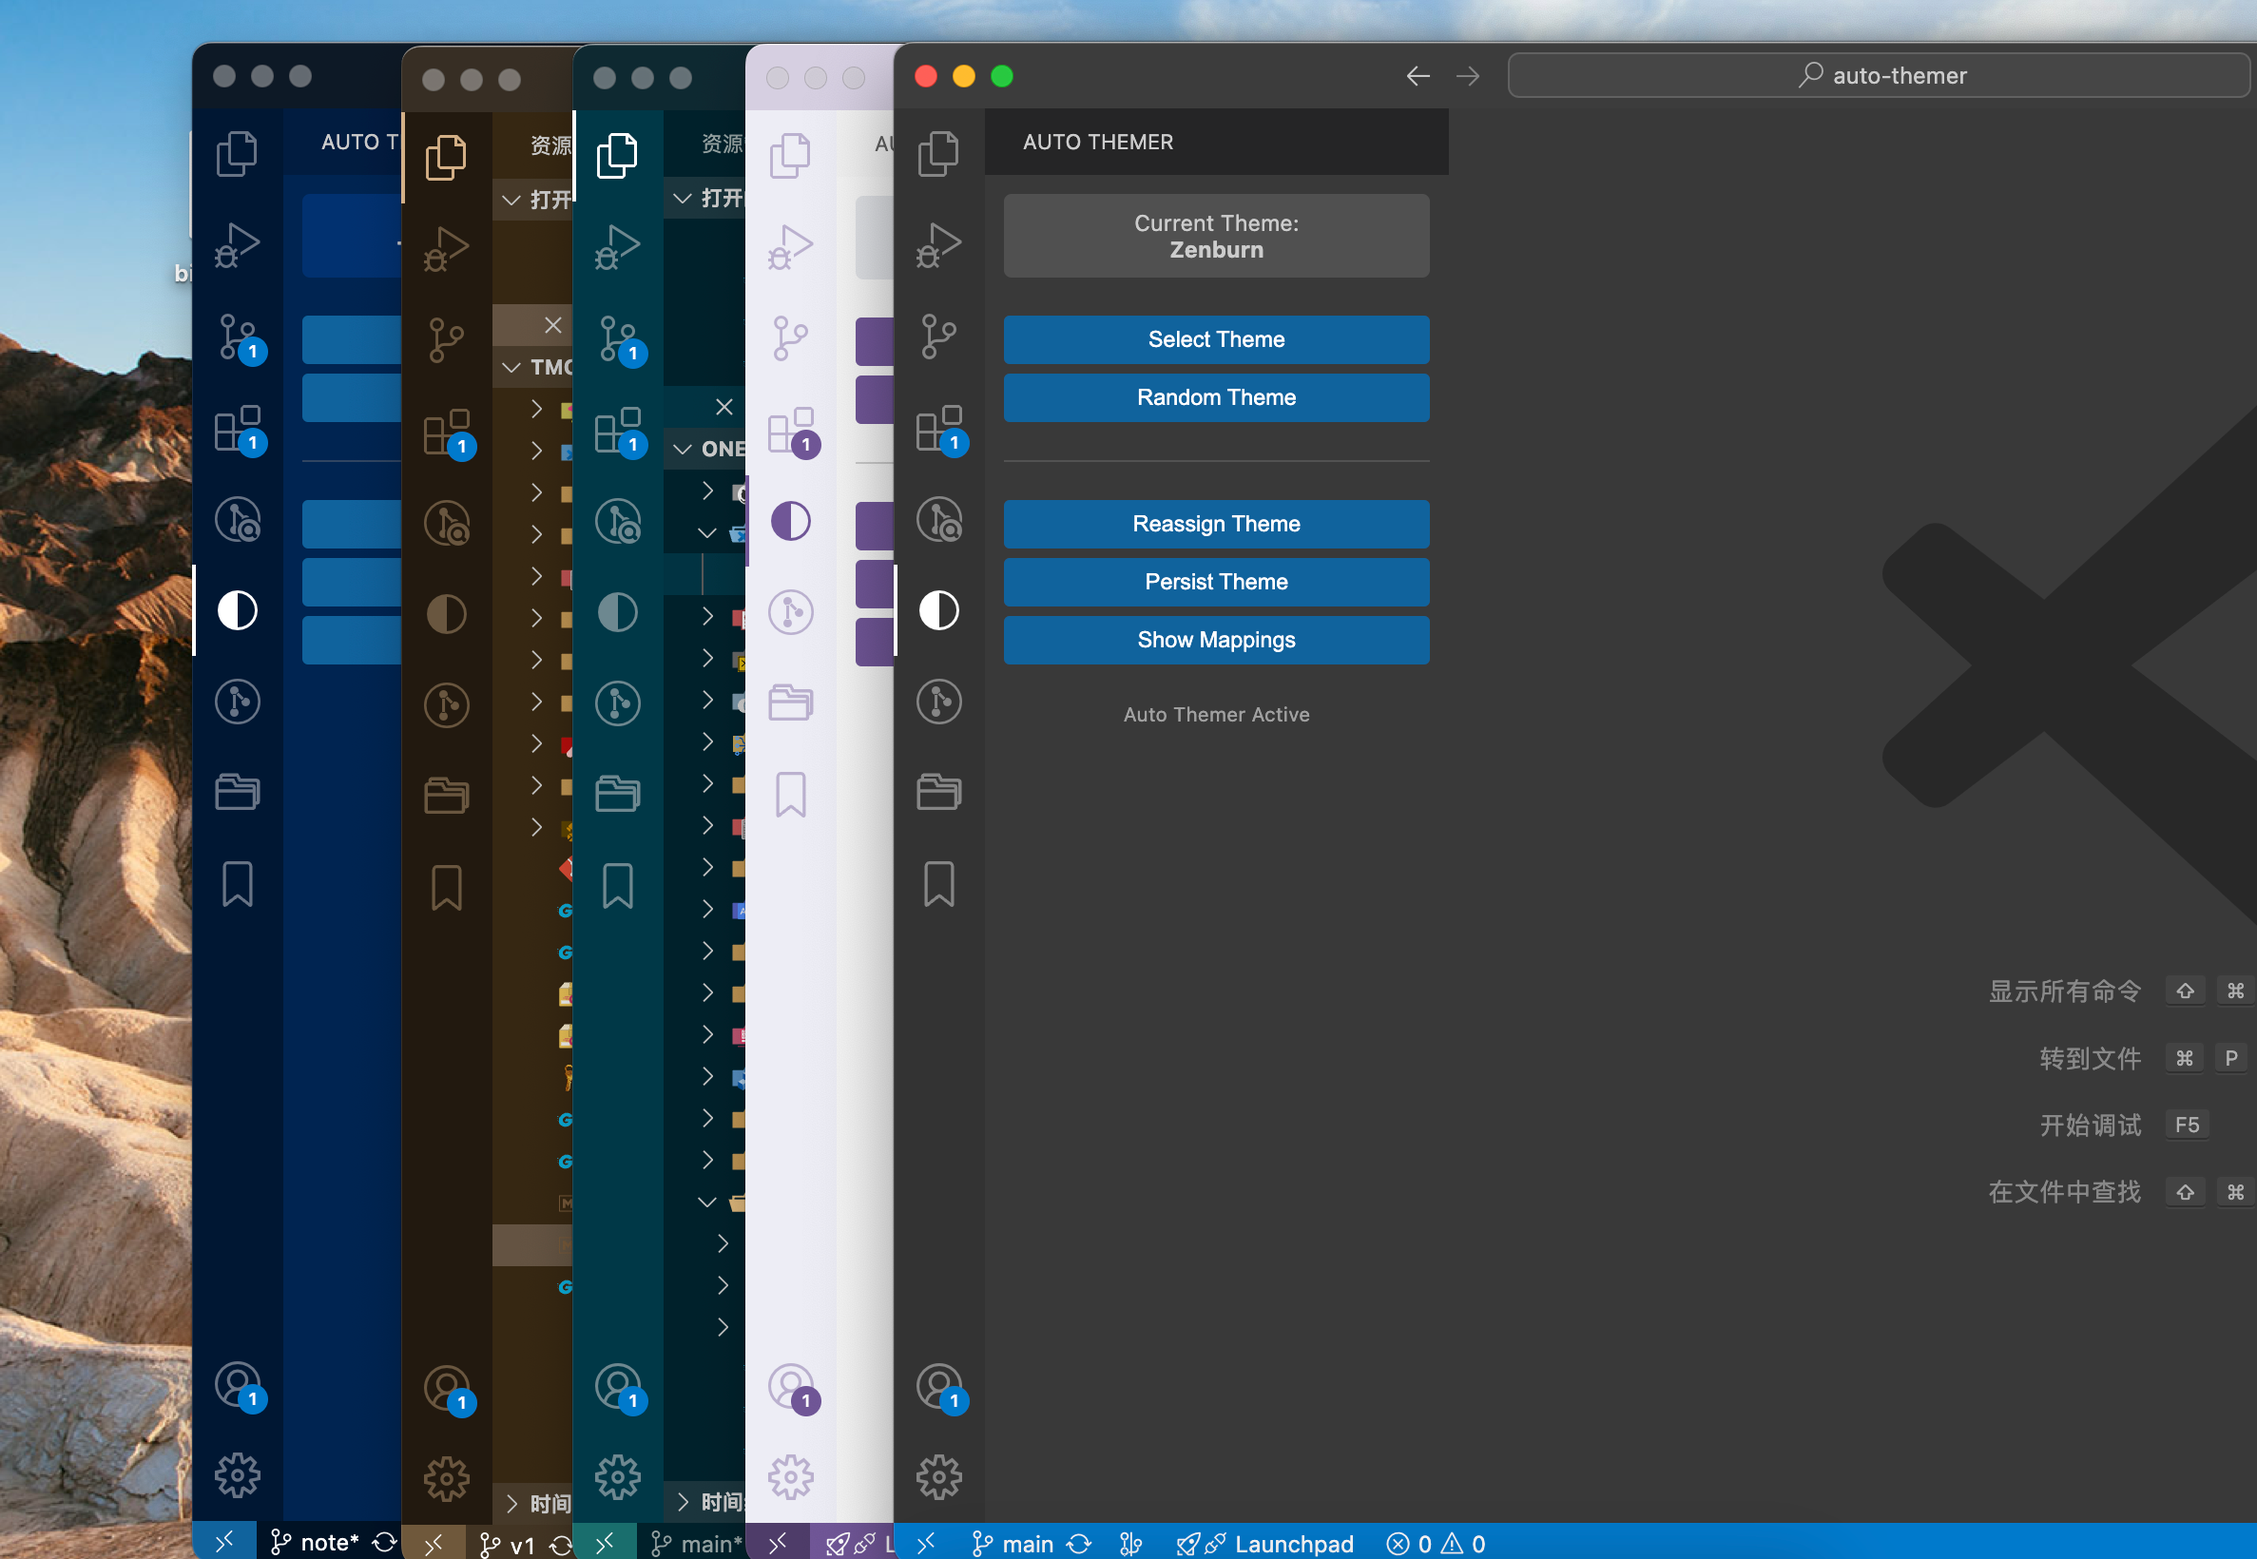
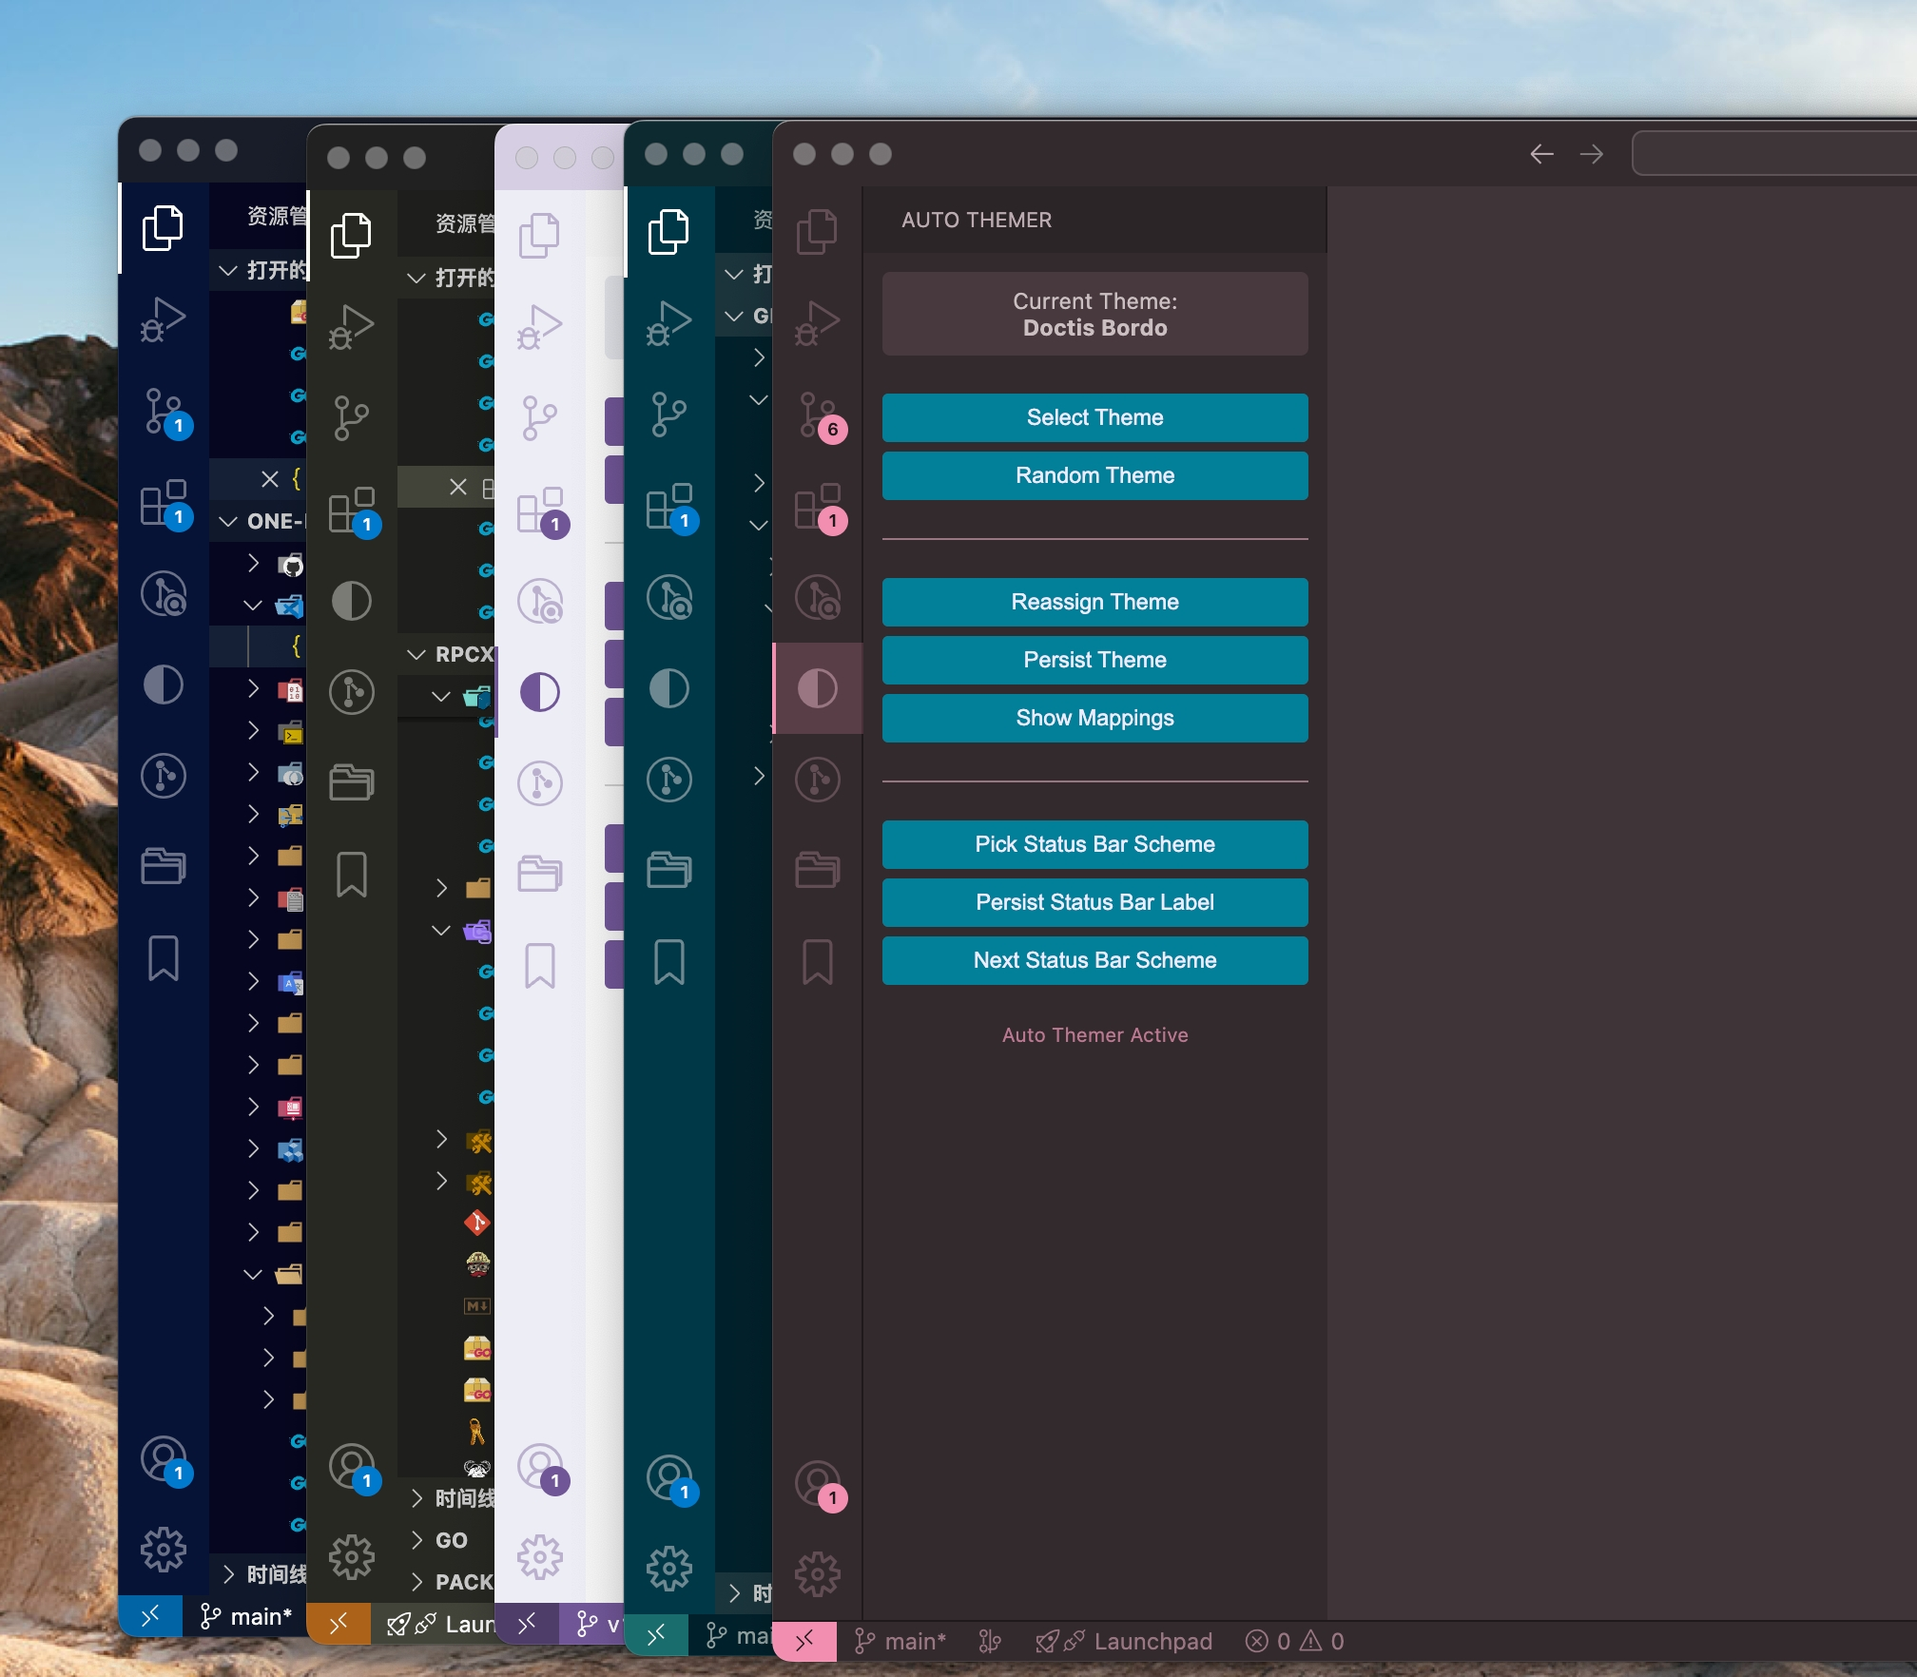
Update doc and fix window status

diff --git a/src/extension.ts b/src/extension.ts
@@ -199,6 +199,7 @@ export function activate(context: vscode.ExtensionContext) {
                     const assignedTheme = await themeManager.assignUniqueTheme(currentInstanceId, instanceCount);
                     windowManager.syncWindowStates()
                     await themeManager.showThemeNotification(assignedTheme);
+                    windowManager.updateCurrentInstanceTheme(assignedTheme);
                     console.log(`Auto-assigned theme: ${assignedTheme} to instance: ${currentInstanceId}`);
                 } else {
                     const schemes = statusBarManager.getSchemeNames();
@@ -234,22 +235,6 @@ export function activate(context: vscode.ExtensionContext) {
         const mappings = parseMappingsText(text);
         return mappings[workspacePath];
     }
-
-    // async function saveWorkspaceStatusBarScheme(workspacePath: string, scheme: string): Promise<void> {
-    //     const config = vscode.workspace.getConfiguration('autoThemer');
-    //     const text = config.get<string>('statusBarSchemeText', '');
-    //     const mappings = parseMappingsText(text);
-    //     mappings[workspacePath] = scheme;
-    //     const newText = serializeMappingsToText(mappings);
-    //     await config.update('statusBarSchemeText', newText, vscode.ConfigurationTarget.Global);
-    // }
-
-    // async function getWorkspaceStatusBarScheme(workspacePath: string): Promise<string | undefined> {
-    //     const config = vscode.workspace.getConfiguration('autoThemer');
-    //     const text = config.get<string>('statusBarSchemeText', '');
-    //     const mappings = parseMappingsText(text);
-    //     return mappings[workspacePath];
-    // }
 
     async function saveWorkspaceStatusBarLabel(workspacePath: string, label: string): Promise<void> {
         const config = vscode.workspace.getConfiguration('autoThemer');

diff --git a/src/utils/WindowInstanceManager.ts b/src/utils/WindowInstanceManager.ts
@@ -136,9 +136,18 @@ export class WindowInstanceManager {
                 instanceInfo.curTheme = theme;
                 instanceInfo.lastActive = Date.now();
                 fs.writeFileSync(infoPath, JSON.stringify(instanceInfo));
+                this.instances.set(instanceId, instanceInfo);
             }
         } catch (error) {
             console.error(`Failed to update instance theme: ${error}`);
+        }
+    }
+
+    public updateCurrentInstanceTheme(theme: string): void {
+        try {
+            this.updateInstanceTheme(this.currentInstanceId, theme);
+        } catch (error) {
+            console.error(`Failed to update current instance theme: ${error}`);
         }
     }
 

diff --git a/README.md b/README.md
@@ -4,40 +4,50 @@
 
 # Auto Themer
 
-Assign and apply color themes per VS Code window/workspace. Supports persisting a workspace→theme mapping by workspace path.
+Assign and apply theme-based or status-bar-based distinction per VS Code window/workspace. Supports persisting mappings by workspace path.
 
-![image](./public/image1.png)
+- (autoThemer.conflictResolution=theme):
+
+  ![image](./public/image1.png)
+
+- (autoThemer.conflictResolution=statusBar):
+
+  ![image](./public/image2.png)
 
 ## Features
 
-- Unique theme assignment: when enabled, each window in a multi-window setup gets a distinct theme
-- Conflict detection and prompts: alerts when multiple windows use the same theme
-- Workspace mappings: define mappings using the `autoThemer.themeMappingsText` setting
-- Sidebar UI: quick theme selection, persist current theme, view and edit mappings
-
-## How It Works
-
-- Multi-window coordination: all VS Code windows share a global storage location (`context.globalStorageUri/fsPath/instances`) to track active instances
-- Theme application: writes `workbench.colorTheme` in `.vscode/settings.json` inside the workspace; on window/workspace close, the value is removed to avoid carryover
-
-Flow:
-1. Delayed initialization on startup, scan and track active windows
-2. If a workspace is open and a mapping exists, apply the mapped theme (highest priority)
-3. If no mapping and multiple windows are detected, assign a unique theme and notify
-4. Periodically check for theme conflicts and prompt via sidebar/notifications
-5. On window or workspace close, reset `workbench.colorTheme` in `.vscode/settings.json` so temporary settings do not persist
+- Distinguish windows by theme or status bar: in multi-window scenarios, automatically assigns a distinct theme or a distinct status bar color+label per window
+- Persistent workspace mappings: define "workspace path → theme" via `autoThemer.themeMappingsText`; define "workspace path → status bar label" via `autoThemer.statusBarMappingsText`
+- Simple sidebar: quick theme selection, persist current theme, view and edit mappings, pick status bar scheme, persist status bar label, cycle next status bar scheme
 
 ## Usage
 
-- Commands:
-  - `Auto Themer: Enable`
-  - `Auto Themer: Disable`
-  - `Auto Themer: Switch Theme`
-  - `Auto Themer: Reassign Theme for Current Window`
-  - `Auto Themer: Persist Current Theme for Workspace`
-  - `Auto Themer: Show Theme Mappings`
-- Sidebar: pick theme, reassign theme, persist current theme, manage mappings
-- Keybinding: `Ctrl+Alt+T` (Mac: `Cmd+Alt+T`) for fast theme actions depending on your configuration
+- In settings, configure `autoThemer.windowsThreshold`; auto assignment only runs when the number of open windows is greater than this threshold
+- Set `autoThemer.conflictResolution` to `theme` or `statusBar` to choose your distinction strategy
+- Use the sidebar panel for common actions: switch theme, pick status bar scheme, persist current theme mapping, persist status bar label mapping
+- When a workspace opens in a new window, the extension applies the mapped theme or status bar settings into `.vscode/settings.json`; when switching workspaces or closing the window, it resets `workbench.colorTheme` to avoid carryover
+
+### Sidebar Actions
+- Select Theme: choose the current window's theme
+- Random Theme: assign a random theme to the current window
+- Reassign Theme: reassign a unique theme to the current window
+- Persist Theme: persist the current window's theme mapping
+- Show Mappings: view workspace ↔ theme mappings
+- Pick Status Bar Scheme: choose the bottom status bar color scheme (built-in list)
+- Persist Status Bar Label: persist a label mapping for the bottom status bar
+- Next Status Bar Scheme: cycle to the next built-in status bar scheme
+
+## How It Works
+
+- Multi-window instance tracking: all VS Code windows coordinate using a shared global storage directory under `context.globalStorageUri.fsPath/instances` (macOS example: `~/Library/Application Support/Code/User/globalStorage`)
+- Theme application: writes `workbench.colorTheme` in the workspace's `.vscode/settings.json`; the value is removed when the window/workspace closes
+
+Flow:
+1. Delayed initialization on startup; scan and track active window instances
+2. If a workspace is open and a persisted mapping exists, apply the mapped theme (highest priority)
+3. If no mapping and multiple windows are detected, assign a unique theme or status bar scheme
+4. Periodically check for theme conflicts and inform via sidebar/notifications
+5. On window close or workspace removal, reset the workspace `.vscode/settings.json` `workbench.colorTheme` to avoid residual temporary settings
 
 ## Configuration
 
@@ -46,31 +56,23 @@ Configure in VS Code settings:
 ```json
 {
   "autoThemer.enabled": true,
-  "autoThemer.builtinThemes": [
-    "Abyss",
-    "Default Light+",
-    "Default Dark+",
-    "Kimbie Dark",
-    "Monokai",
-    "Monokai Dimmed",
-    "Quiet Light",
-    "Red",
-    "Solarized Dark",
-    "Solarized Light",
-    "Tomorrow Night Blue"
-  ],
-  "autoThemer.themeMappingsText": "/my/pro-dev: Kimbie Dark; /easy/hc: Kimbie Dark"
+  "autoThemer.conflictResolution": "theme",
+  "autoThemer.windowsThreshold": 2,
+  "autoThemer.builtinThemes": [],
+  "autoThemer.themeMappingsText": "/my/pro-dev: Kimbie Dark; /easy/hc: Kimbie Dark",
+  "autoThemer.statusBarMappingsText": "/my/pro-dev: Custom Label; /easy/hc: Custom Project"
 }
 ```
 
 Notes:
-- `themeMappingsText` is a semicolon-separated `path: Theme` string. The extension parses this text in memory and uses it as the workspace→theme mapping.
+- `themeMappingsText` uses a semicolon-separated `path: Theme` string; parsed in-memory as the workspace → theme mapping
+- `statusBarMappingsText` uses a semicolon-separated `path: Label` string; parsed in-memory as the workspace → status bar label mapping
 
 ## Development
 
-- `npm install`
-- `npm run compile`
-- Press F5 in VS Code to launch the Extension Development Host
+1. `npm install`
+2. `npm run compile`
+3. Press F5 in VS Code to launch the Extension Development Host
 
 ## License
 

diff --git a/README.CN.md b/README.CN.md
@@ -2,41 +2,50 @@
 
 自动为不同 VSCode 窗口-工作区分配与应用配色主题，并支持按工作区路径持久化主题映射。
 
-![image](./public/image1.png)
+- 通过Theme区分窗口:(autoThemer.conflictResolution=theme)
 
+  ![image](./public/image1.png)
+
+- 通过底部状态栏颜色与标签区分窗口:(autoThemer.conflictResolution=statusBar)
+
+  ![image](./public/image2.png)
 
 ## 功能
 
-- 自动分配唯一主题：如果开启自动分配，多窗口场景会为每个窗口分配不同主题，提升区分度
-- 冲突检测与提示：检测多个窗口使用相同主题时给出提醒
-- 工作区持久化映射：通过设置项文本 `autoThemer.themeMappingsText` 定义“工作区路径 → 主题”映射
-- 简洁侧边栏：支持快速选择主题、持久化当前主题、查看并编辑映射
+- 通过主题或者底部状态栏区分工作区：多窗口场景会自动为每个窗口分配不同主题或者不同的底部状态栏颜色+标签，提升窗口的区分度。
+- 工作区持久化映射：通过设置项文本 `autoThemer.themeMappingsText` 定义“工作区路径 → 主题”映射，也可以配置 `autoThemer.statusBarMappingsText`配置底部状态栏的标签映射。
+- 简洁侧边栏：支持快速选择主题、持久化当前主题、查看并编辑映射、切换底部状态栏、持久化底部状态栏标签。
+
+## 使用方式
+
+- 进入插件设置，配置`autoThemer.windowsThreshold`，打开的窗口数超过该阈值时才会自动分配主题。
+- 配置 `autoThemer.conflictResolution` ,选择`theme`或`statusBar`，分别表示通过主题或底部状态栏区分窗口。
+- 其他操作可以通过侧边栏的插件面板设置，如切换主题、切换状态栏颜色、持久化当前工作区的主题映射、持久化底部状态栏标签映射。
+- 新窗口打开工作区后，自动检测并分配主题或者状态栏到`.vscode/settings.json`；切换工作区或者关闭窗口时，会自动重置.vscode/settings.json的colorTheme。
+
+### 插件面板功能说明
+- select theme: 选择当前窗口的主题
+- random theme: 随机为当前窗口分配主题
+- reassign theme: 重新分配当前窗口的主题
+- persist theme: 持久化当前窗口的主题映射
+- show mappings: 查看工作区与主题的映射关系
+- pick status bar scheme: 选择当前窗口的底部状态栏颜色配置(仅内置)
+- persist status bar: 持久化当前窗口的底部状态栏标签映射
 
 ## 执行原理与链路
 
 - 多窗口主题检查原理：
-  所有VSCode窗口使用同一全局存储位置文件进行实例协调，位置: context.globalStorageUri.fsPath下的instances目录。(mac: ~/Library/Application Support/Code/User/globalStorage/xxxxx.auto-theme-switcher/instances)
+  所有VSCode窗口使用同一全局存储位置文件进行实例协调，位置: context.globalStorageUri.fsPath下的instances目录。(mac: ~/Library/Application Support/Code/User/globalStorage)
 - 多窗口主题设置原理：
   基于打开的工作区中.vscode中的setting.json，关闭窗口或者关闭工作区则重置setting.json的colorTheme。
 
 链路：
 1. 启动后延迟初始化，扫描与记录活动窗口实例
 2. 检查是否打开工作区，若存在持久化映射则直接应用映射主题（优先级最高）
-3. 若无映射且为多窗口场景，执行唯一主题分配并通知
+3. 若无映射且为多窗口场景，执行唯一主题分配
 4. 定期检查主题冲突并通过侧边栏与通知提示用户
 5. 关闭窗口或移除工作区时，重置工作区 `.vscode/settings.json` 的 `workbench.colorTheme`，保证临时设置不残留
 
-## 使用
-
-- 命令面板：
-  - `Auto Themer: Enable`
-  - `Auto Themer: Disable`
-  - `Auto Themer: Switch Theme`
-  - `Auto Themer: Reassign Theme for Current Window`
-  - `Auto Themer: Persist Current Theme for Workspace`
-  - `Auto Themer: Show Theme Mappings`
-- 侧边栏：选择主题、随机主题、重新分配、持久化当前主题、查看工作区与主题的映射关系
-- 快捷键：`Ctrl+Alt+T`（Mac：`Cmd+Alt+T`）切换随机主题
 
 ## 配置
 
@@ -45,22 +54,17 @@
 ```json
 {
   "autoThemer.enabled": true,
-  "autoThemer.builtinThemes": [
-    "Default Dark+",
-    "Default Light+",
-    "Monokai",
-    "Solarized Dark",
-    "Solarized Light",
-    "Abyss",
-    "Red",
-    "Kimbie Dark",
-    "Tomorrow Night Blue"
-  ],
-  "autoThemer.themeMappingsText": "/my/pro-dev: Kimbie Dark; /easy/hc: Kimbie Dark"
+  "autoThemer.conflictResolution": "theme",
+  "autoThemer.windowsThreshold": 2,
+  "autoThemer.builtinThemes": [],
+  "autoThemer.themeMappingsText": "/my/pro-dev: Kimbie Dark; /easy/hc: Kimbie Dark",
+  "autoThemer.statusBarMappingsText": "/my/pro-dev: 自定义标签; /easy/hc: 自定义项目"
 }
 ```
 
-说明：`themeMappingsText` 使用分号分隔的 `路径: 主题` 文本，插件在内存中解析并使用该映射。
+说明：
+`themeMappingsText` 使用分号分隔的 `路径: 主题` 文本，插件在内存中解析并使用该映射。
+`statusBarMappingsText` 使用分号分隔的 `路径: 标签` 文本，插件在内存中解析并使用该映射。
 
 ## 开发
 
